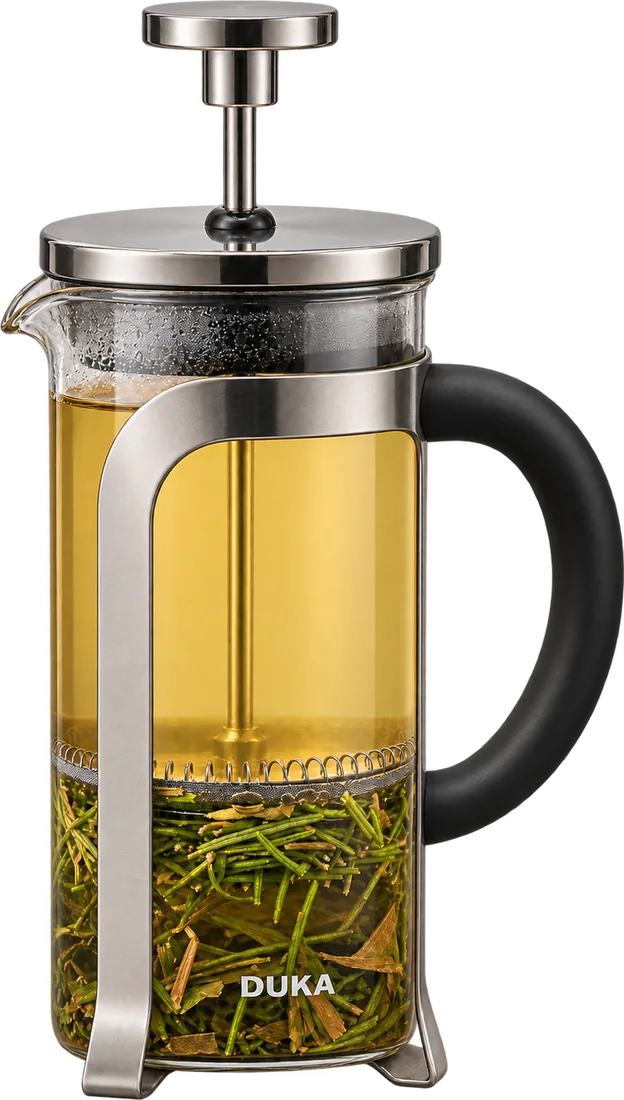
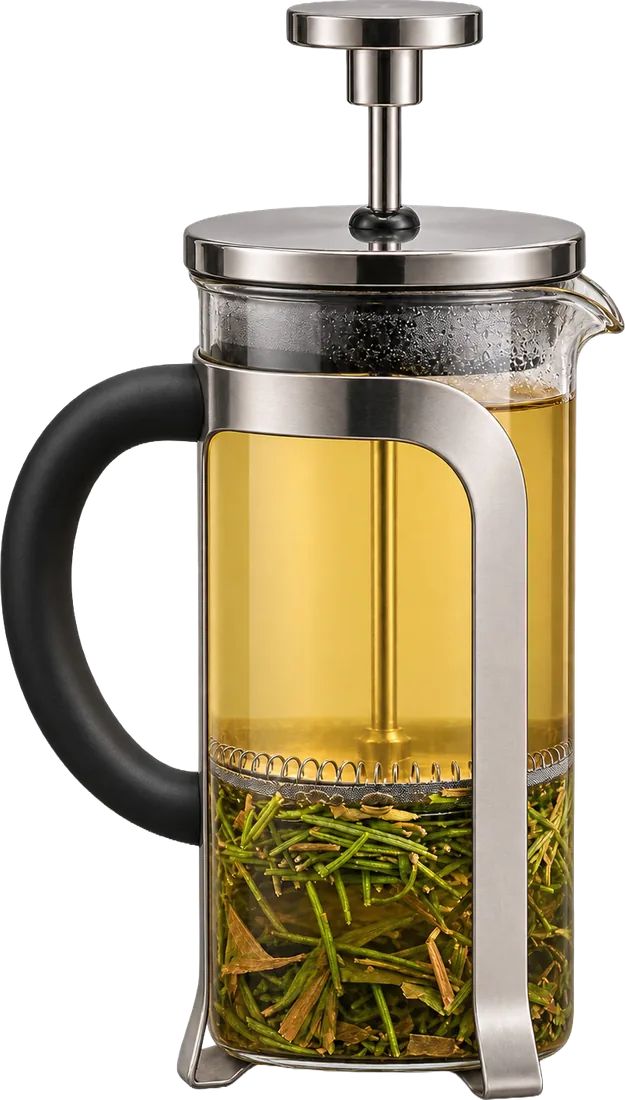
Added new drinks

diff --git a/TODO.md b/TODO.md
@@ -15,28 +15,29 @@
 Everything else about them is fine: A–Z, a–z, 0–9 and `.` are all present, which
 covers every heading in the app.
 
-## 2. Photo mapping — 60 of 70 done
+## 2. Photo mapping — 62 of 70 done
 
-Photos come from `D:\Elixir\Product Images\Elixir Products Images` (`Cold Drinks`,
-`Hot Drinks`, `Shots`). They are converted to WebP in `assets/drinks/`, named by
-the price-list code: `sm-02.webp`, `sh-10.webp`, and so on. 60 photos, 8.9 MB.
+Photos come from `D:\Elixir\Product Images\Elixir Products Images` — `Cold
+Drinks`, `Hot Drinks` and `Shots`, plus the dated drops the client adds beside
+them (`Cold Drinks 23-11`, `Hot drinks 25-11`). They are converted to WebP in
+`assets/drinks/`, named by the price-list code: `sm-02.webp`, `sh-10.webp`, and
+so on. 62 photos, 9.0 MB.
 
 Files named `Image NN.png` were skipped as instructed — those are drinks that
 aren't on the current menu.
 
-**10 drinks still have no photo.** Each renders a dashed placeholder:
+**8 drinks still have no photo.** Each renders a dashed placeholder:
 
 | Category | Missing |
 |---|---|
 | Hot Herbal | HH-02 Turmeric |
-| Milkshakes | MS-02 Crocant Anise |
-| Specialty Coffee | SC-02 Lungo, SC-04 American Filter, SC-05 Cappuccino, SC-06 Latte, SC-10 Hot Chocolate |
+| Specialty Coffee | SC-02 Lungo, SC-04 American Filter, SC-05 Cappuccino, SC-06 Latte |
 | Iced Coffee | IC-01 Iced Coffee, IC-05 Iced Mocha, IC-06 Iced V60 |
 
-**Five of the eight categories are complete** — Smoothies, Iced Tea,
-Spirulina and Shots, plus Hot Herbal and Milkshakes one short each. **Eight of
-the ten gaps are coffee**, five Specialty and three Iced, so the remaining
-shoot is essentially a coffee shoot.
+**Six of the eight categories are complete** — Smoothies, Milkshakes, Iced Tea,
+Spirulina and Shots, with Hot Herbal one short. **Seven of the eight gaps are
+coffee**, four Specialty and three Iced, so what is left is a coffee shoot plus
+a single herbal.
 
 **Five judgement calls to confirm** — the filename didn't match the menu name exactly:
 
@@ -52,15 +53,9 @@ filename there names exactly one drink that had no photo, so none of these was
 a judgement call: SM-01, HH-04, HH-05, HH-06, IT-01, IT-02, IT-03, MS-12,
 IC-07. 12.4 MB of PNG became 1.27 MB of WebP.
 
-Three of them are worth a second look before go-live:
+One flag from that drop still stands; the other two were answered by the
+re-shoot below.
 
-- **The three new French presses face the other way.** Ginkgo, Peach and
-  Oregano have the handle on the right; Berry, Lemon Balm and the rest have it
-  on the left, so Hot Herbal now shows handles pointing both ways down the
-  grid. They cannot simply be flipped — see the next point.
-- **The new presses carry a visible `DUKA` logo** on the glass, which the older
-  three do not. It is another brand's name on an ELIXIR screen, and it is what
-  rules out mirroring them to match. Retouching or a re-shoot are the options.
 - **The two hibiscus-tamarind photos are styled with strawberries.** `SM-01
   Hibiscus Tamarind` now looks almost identical to `SM-10 Strawberry Rosemary`
   beside it, and `MS-12 Hibiscus & Tamarind` close to `MS-10 Strawberry
@@ -69,6 +64,25 @@ Three of them are worth a second look before go-live:
   confirming. (SM-01 was renamed from *Pomegranate Hibiscus Tamarind* to
   *Hibiscus Tamarind* on 23 Nov 2026, dropping `رمان` from the Arabic too, so
   the drink and its photo now agree on the name at least.)
+
+**Five more arrived 25 Nov 2026**, from
+`D:\Elixir\Product Images\Elixir Products Images\Hot drinks 25-11` — three
+replacements and two new drinks. 5.2 MB of PNG became 0.38 MB of WebP.
+
+- `herbal-ginko.png`, `herbal-peach.png` and `herbal-oregano.png` **replace**
+  `hh-04`, `hh-05` and `hh-06`. This is the re-shoot the 23-11 flags asked for,
+  and it answers both at once: the handle is back on the left, matching HH-01,
+  HH-03 and HH-07, and the `DUKA` logo is gone from the glass. Hot Herbal now
+  reads as one set. The superseded files are listed as unused below.
+- `milkshake-crocant-anise.png` fills **MS-02**, the last gap in Milkshakes.
+- `hot-chocolate.png` fills **SC-10**, and it settles the `dark-mocha-hot.png`
+  question: the two files are **byte-identical**
+  (`bfb6d922417cd1e9ada744329624af9e`). The client renamed the mocha shot and
+  sent it back as the hot chocolate, so the drink is wired to the photo they
+  chose rather than to a guess of mine. Its framing matches `sc-01` and `sc-09`
+  almost exactly, so it takes the same `scale: 0.9` as the other cups. Worth
+  noting it is a plain black cup and saucer, not the branded ELIXIR ceramic
+  that Espresso, Macchiato and the rest are shot in.
 
 **The misnamed iced tea is resolved.** `Cold Drinks/mango-ice-tea.png` was
 actually the **lemon** photo; it has since been renamed to `lemon-ice-tea.png`
@@ -100,16 +114,25 @@ own photo.
 and matches it against every shipped `.webp`, so a file dropped into a source
 folder later cannot quietly go unnoticed. Re-run it after any photo drop.
 
-**Five named files are still unused**, in case any belongs to a drink above:
+It compares in **colour**, and calls a match below **5**. Both of those were
+tightened on 25 Nov 2026: in greyscale the hot drinks are the same black cup
+over and over, so `matcha-hot.png` and `spirulina-hot.png` were scoring inside
+the old threshold of 12 against the new `sc-10.webp` and quietly counting as
+used. The distances are cleanly bimodal — a re-encode of the same photo scores
+under 3, the nearest genuinely different drink over 10 — so 5 sits in the gap
+with room either side.
+
+**Seven named files are still unused**, in case any belongs to a drink above:
 
 - `Cold Drinks/pina-colada-patterson.png` and
   `Cold Drinks/smoothie-green-apple-kiwi-rosemary (2).png` are alternate takes
   of photos already in use (MS-01 and SM-12).
-- `Hot Drinks/dark-mocha-hot.png`, `matcha-hot.png` and `spirulina-hot.png`
-  have no drink on the menu at all. **`dark-mocha-hot.png` is worth a
-  question**: `SC-10 Hot Chocolate` has no photo, and a dark mocha is the
-  nearest thing in the folder — but a mocha has coffee in it and a hot
-  chocolate does not, so it was not wired.
+- `Cold Drinks 23-11/herbal-ginko.png`, `herbal-peach.png` and
+  `herbal-oregano.png` are the mirrored, `DUKA`-branded presses, superseded by
+  the identically named files in `Hot drinks 25-11`. Same names, different
+  folders — mind which one a later pass reads.
+- `Hot Drinks/matcha-hot.png` and `spirulina-hot.png` have no drink on the menu
+  at all. (`dark-mocha-hot.png` is no longer in this list: it is SC-10.)
 
 The eight PNGs in `Shots/` are the pre-reshoot bottles, superseded by
 `Shots New/Bottles finals`. Everything else named in those folders is wired to

diff --git a/CLAUDE.md b/CLAUDE.md
@@ -96,7 +96,7 @@ Prices render as the number followed by `JOD`, trailing zeros stripped — `3 JO
 
 ## Images
 
-Drink photos live in `assets/drinks/` as WebP. At kiosk size (800×1100 max, quality 82) they run about a fifteenth of the supplied PNGs — **60 photos in 8.9 MB**. All are transparent cutouts, so they sit on any background.
+Drink photos live in `assets/drinks/` as WebP. At kiosk size (800×1100 max, quality 82) they run about a fifteenth of the supplied PNGs — **62 photos in 9.0 MB**. All are transparent cutouts, so they sit on any background.
 
 Conversion uses `sharp` installed **into the scratchpad, never the repo** — only the finished `.webp` files are committed, so the no-build-step rule holds. There is no WebP encoder on the machine otherwise.
 
